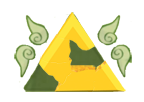
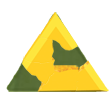
Make triforce and pearls take up less space

diff --git a/tracker.html b/tracker.html
@@ -211,9 +211,6 @@
                         <tr>
                             <td>
                                 <div class="pearls">
-                                    <div class="pearl-holder">
-                                        <img src="./images/pearl_holder.png" />
-                                    </div>
                                     <img id="pearl0" name="Nayru's Pearl" onmouseout="clearItemInfo();" onmouseover="itemInfo(this);"
                                         onclick="toggleInventoryItem(this, 1);" src="./images/pearl0.png" />
                                     <br>
@@ -221,6 +218,9 @@
                                         onclick="toggleInventoryItem(this, 1);" src="./images/pearl1.png" class="dins-pearl" />
                                     <img id="pearl2" name="Farore's Pearl" onmouseout="clearItemInfo();" onmouseover="itemInfo(this);"
                                         onclick="toggleInventoryItem(this, 1);" src="./images/pearl2.png" class="farores-pearl" />
+                                    <div class="pearl-holder">
+                                        <img src="./images/pearl_holder.png" />
+                                    </div>
                                 </div>
                             </td>
                             <td>

diff --git a/styles/styles.css b/styles/styles.css
@@ -306,24 +306,32 @@ legend {
 .triforce-and-pearls {
     margin-top: auto;
     margin-bottom: auto;
-    width: 270px;
+    width: 208px;
 }
 
 .pearls {
-    width: 114px;
+    width: 96px;
     margin-left: auto;
     margin-right: auto;
     position: relative;
 }
 
+.pearls img {
+    position: relative;
+    z-index: 1;
+}
+
 .pearl-holder {
     position: absolute;
-    z-index: 1;
     pointer-events: none;
+    top: 0;
 }
 
 .pearl-holder img {
-    filter: none;
+    position: absolute;
+    left: 12px;
+    top: 17px;
+    z-index: 0;
 }
 
 .misc-items {
